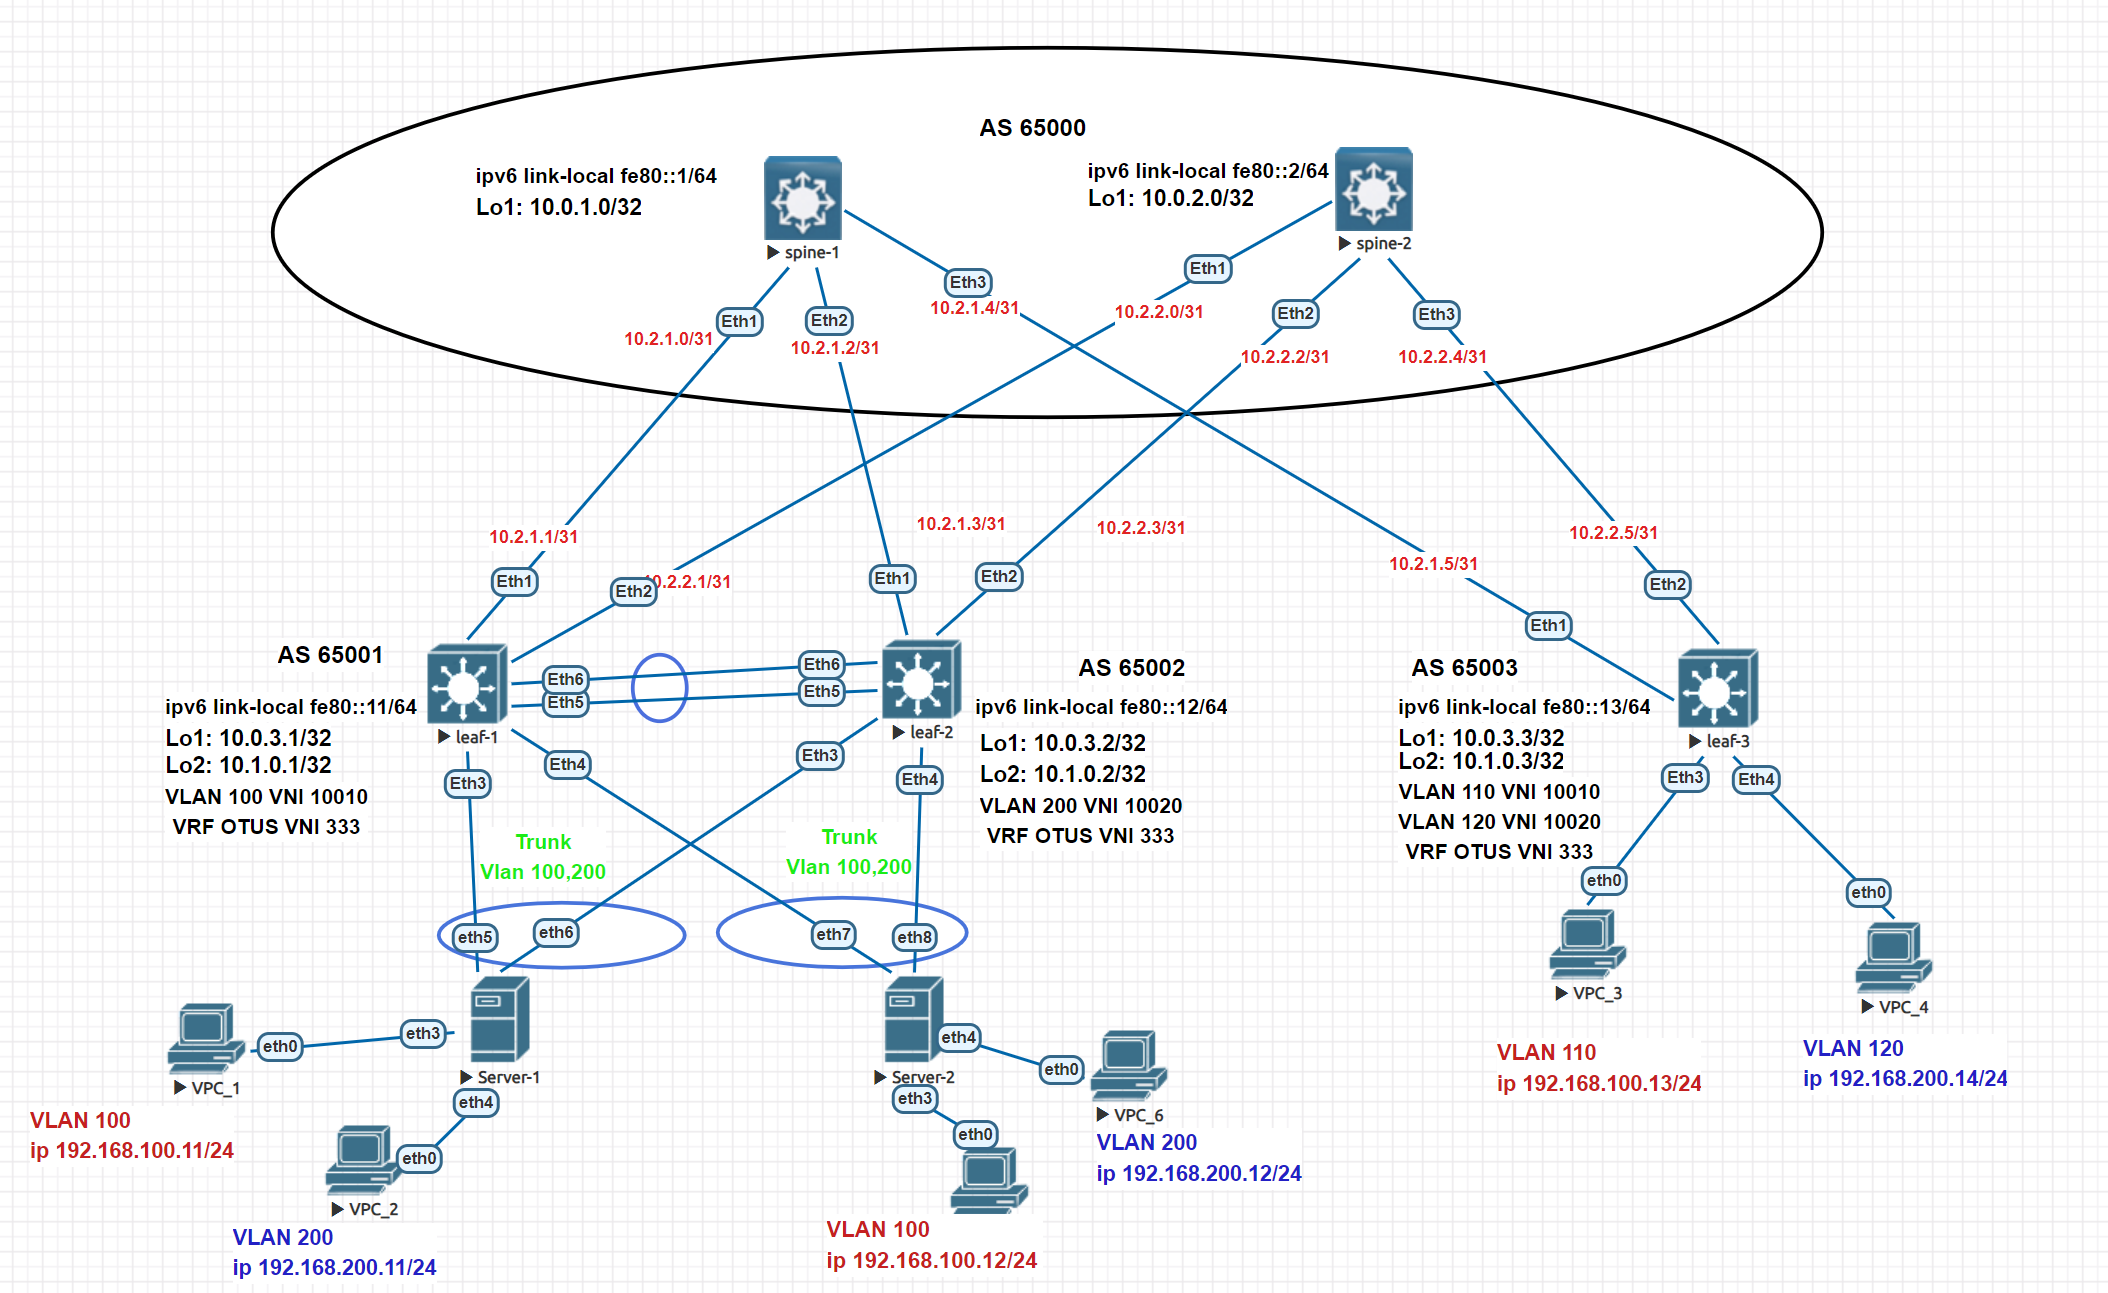
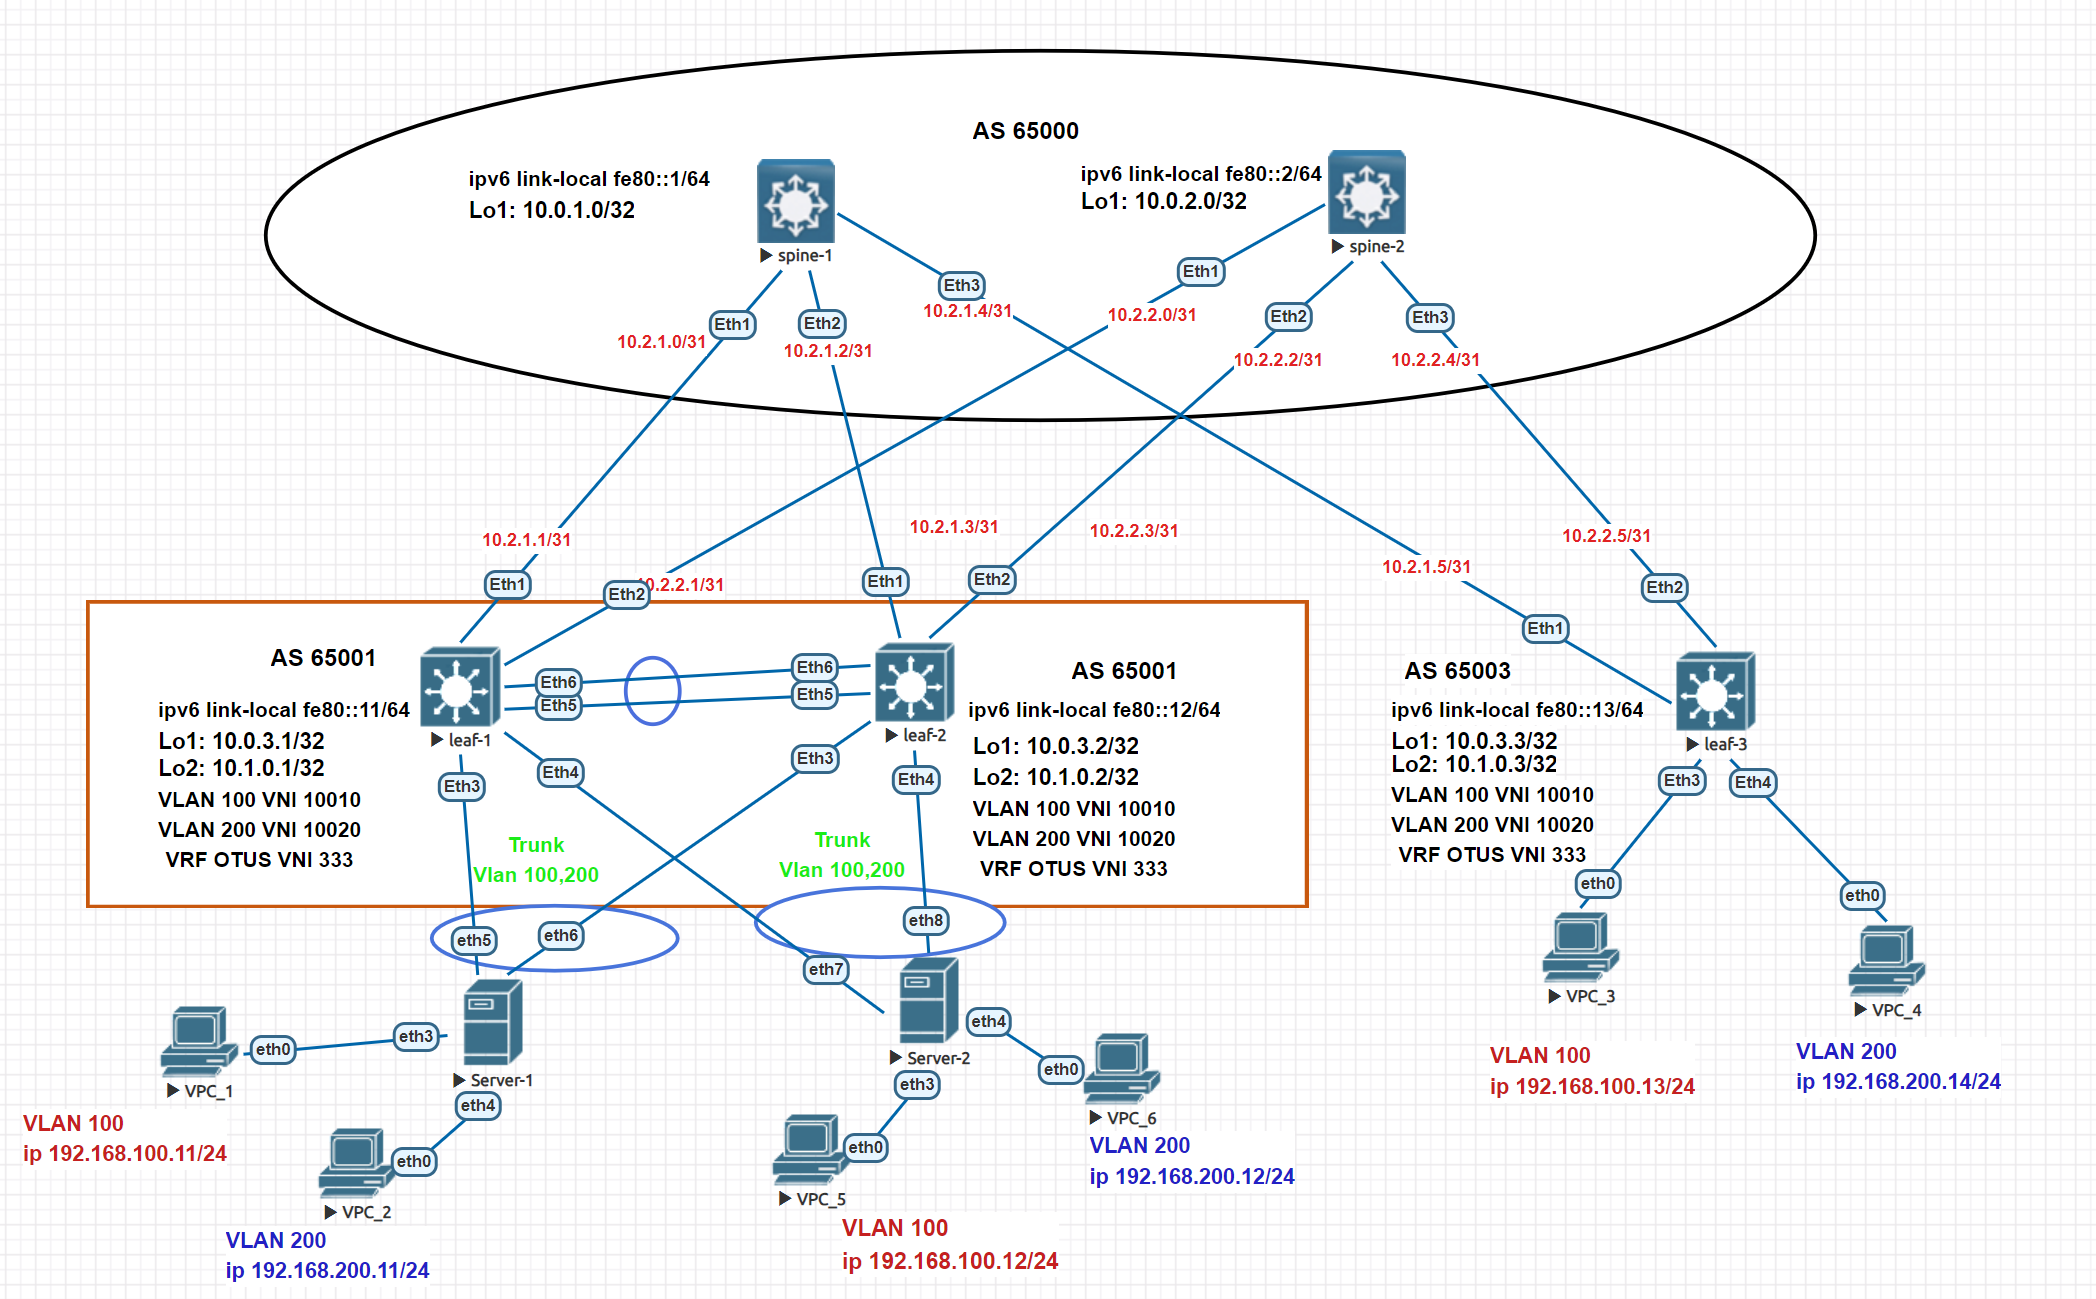
change config in HM 7

diff --git a/HomeWork7/README.md b/HomeWork7/README.md
@@ -1,0 +1,106 @@
+# Домашнее задание №7
+## Построение Overlay сети VxLAN Multihoming
+
+### Задание:
+- Подключите клиентов 2-я линками к различным Leaf
+- Настроите агрегированный канал со стороны клиента
+- Настроите multihoming для работы в Overlay сети. Если используете Cisco NXOS - vPC, если иной вендор - то ESI LAG (либо MC-LAG с поддержкой VXLAN)
+
+## Решение:
+
+### Схема сети
+![](img/Schema_VxLAN_L3_MH.png)
+
+## Конфигурации:
+
+- [spine-1](Config/spine-1.cfg)
+
+```
+interface Loopback1
+   ip address 10.0.1.0/32
+
+ip prefix-list BGP_out seq 10 permit 10.0.1.0/32
+
+route-map BGP_out_map permit 10
+   match ip address prefix-list BGP_out
+
+peer-filter EVPN
+   10 match as-range 65001-65003 result accept
+
+peer-filter LEAFS
+   10 match as-range 65001-65003 result accept
+
+router bgp 65000
+   router-id 10.0.1.0
+   bgp default ipv4-unicast transport ipv6
+   timers bgp 3 9
+   maximum-paths 2 ecmp 2
+   bgp listen range 10.0.3.0/24 peer-group EVPN peer-filter EVPN
+   bgp listen range fe80::/64 peer-group LEAFS peer-filter LEAFS
+   neighbor EVPN peer group
+   neighbor EVPN next-hop-unchanged
+   neighbor EVPN update-source Loopback1
+   neighbor EVPN ebgp-multihop 3
+   neighbor EVPN send-community extended
+   neighbor LEAFS peer group
+   neighbor LEAFS bfd
+   neighbor LEAFS auto-local-addr
+   neighbor LEAFS password 7 b86CRLUyvVyBSvjcT7UH5A==
+   neighbor LEAFS send-community
+   redistribute connected route-map BGP_out_map
+   
+   address-family evpn
+      neighbor EVPN activate
+   
+   address-family ipv4
+      neighbor LEAFS activate
+   
+   address-family ipv6
+      neighbor LEAFS activate
+
+```
+- [spine-2](Config/spine-2.cfg)
+
+```
+interface Loopback1
+   ip address 10.0.2.0/32
+
+ip prefix-list BGP_out seq 10 permit 10.0.2.0/32
+
+route-map BGP_out_map permit 10
+   match ip address prefix-list BGP_out
+
+peer-filter EVPN
+   10 match as-range 65001-65003 result accept
+
+peer-filter LEAFS
+   10 match as-range 65001-65003 result accept
+
+router bgp 65000
+   router-id 10.0.2.0
+   timers bgp 3 9
+   maximum-paths 2 ecmp 2
+   bgp listen range 10.0.3.0/24 peer-group EVPN peer-filter EVPN
+   bgp listen range fe80::/64 peer-group LEAFS peer-filter LEAFS
+   neighbor EVPN peer group
+   neighbor EVPN next-hop-unchanged
+   neighbor EVPN update-source Loopback1
+   neighbor EVPN ebgp-multihop 3
+   neighbor EVPN send-community extended
+   neighbor LEAFS peer group
+   neighbor LEAFS bfd
+   neighbor LEAFS auto-local-addr
+   neighbor LEAFS password 7 b86CRLUyvVyBSvjcT7UH5A==
+   neighbor LEAFS send-community
+   redistribute connected route-map BGP_out_map
+   
+   address-family evpn
+      neighbor EVPN activate
+   
+   address-family ipv4
+      neighbor LEAFS activate
+   
+   address-family ipv6
+      neighbor LEAFS activate
+
+```

diff --git a/README.md b/README.md
@@ -11,3 +11,5 @@
 [05 Настройка сети Overlay VxLAN L2](HomeWork5)
 
 [06 Настройка сети Overlay VxLAN L3](HomeWork6)
+
+[07 Настройка сети Overlay VxLAN Multihoming](HomeWork7)
